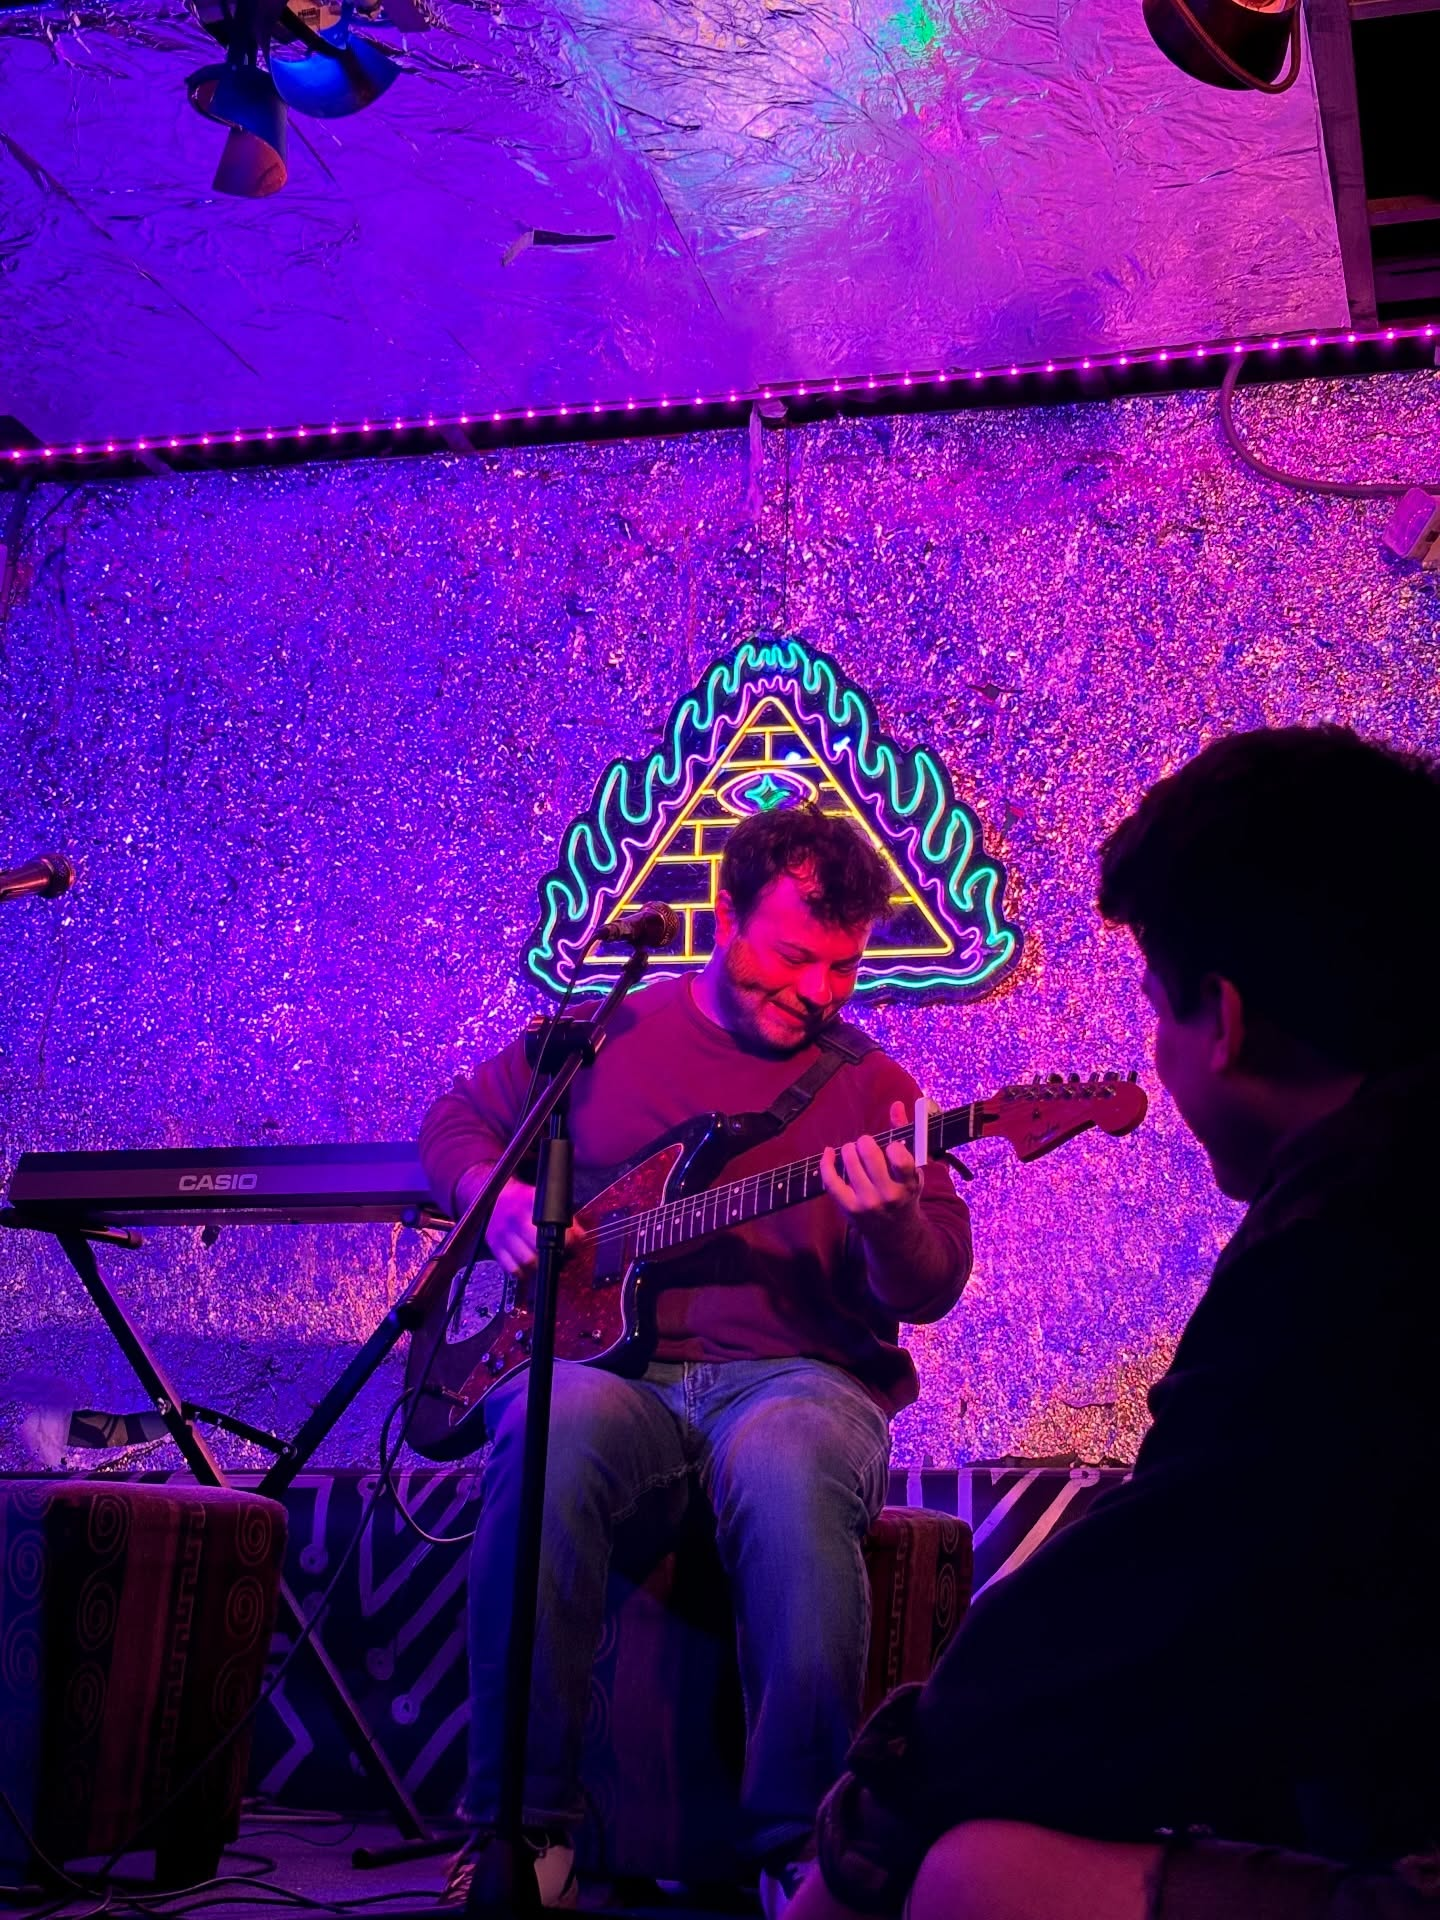
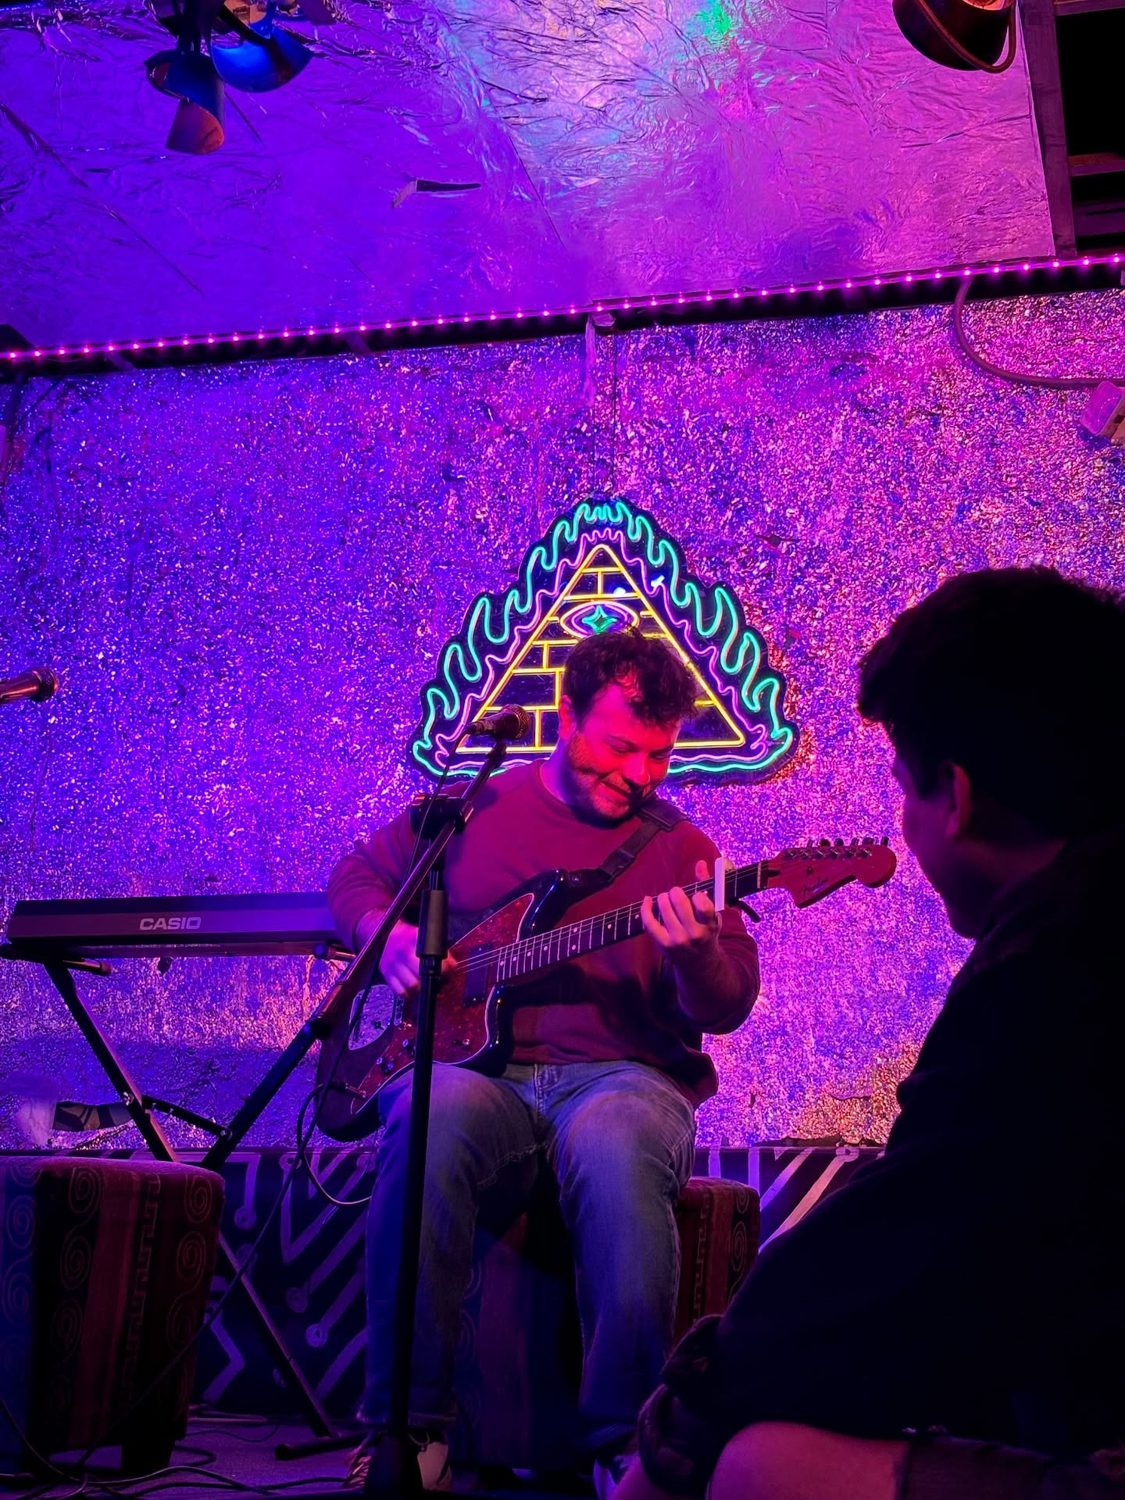
Cambios

diff --git a/src/styles/global.css b/src/styles/global.css
@@ -1,7 +1,6 @@
 /* rebrand: ink+bone+ember | 2026-05-20 */
 /* ==================== VARIABLES & GLOBAL STYLES ==================== */
-
-@import url('https://fonts.googleapis.com/css2?family=Fraunces:ital,opsz,wght@0,9..144,300;0,9..144,400;0,9..144,500;0,9..144,600;0,9..144,700;0,9..144,900;1,9..144,300;1,9..144,400;1,9..144,500;1,9..144,600&family=Instrument+Sans:ital,wght@0,400;0,500;0,600;0,700;1,400&family=JetBrains+Mono:wght@400;500;600;700&display=swap');
+/* Las fuentes se cargan vía <link> en Layout.astro (preconnect + stylesheet) */
 
 :root {
     /* ── INK + BONE + EMBER palette ── */

diff --git a/src/content/blog/apoya-mas-fuerte-mal-consejo.md b/src/content/blog/apoya-mas-fuerte-mal-consejo.md
@@ -1,5 +1,5 @@
 ---
-title: Por qué *"apoya más fuerte"* es el peor consejo vocal que puedes recibir
+title: 'Por qué "apoya más fuerte" es el peor consejo vocal que puedes recibir'
 excerpt: Llevas años escuchando que el secreto del canto está en "apoyar desde
   el diafragma" o "empujar el aire". Y es probable que ese consejo te haya
   frustrado más de lo que te ha ayudado. Te explico por qué, desde la

diff --git a/src/content/blog/faber-para-adultos.md b/src/content/blog/faber-para-adultos.md
@@ -1,5 +1,5 @@
 ---
-title: 'Faber & Faber para adultos: por qué un método "para niños" funciona *increíble*'
+title: 'Faber & Faber para adultos: por qué un método "para niños" funciona increíble'
 excerpt: 'El método de piano más usado por profesores serios alrededor del mundo tiene fama de ser para niños. Es un mito que cuesta dinero y motivación a muchos adultos. Te explico por qué Faber funciona perfectamente para adultos cuando se aplica con criterio.'
 category: 'piano'
 date: 2026-04-28

diff --git a/src/content/blog/hook-theory-composicion.md b/src/content/blog/hook-theory-composicion.md
@@ -1,5 +1,5 @@
 ---
-title: 'Hook Theory: cómo leer la *armonía* de tus canciones favoritas (y empezar a componer las tuyas)'
+title: 'Hook Theory: cómo leer la armonía de tus canciones favoritas (y empezar a componer las tuyas)'
 excerpt: 'Si quieres componer pero no sabes por dónde empezar, Hook Theory es el atajo que cambia todo. La notación funcional (1-4-5-6) te muestra el patrón detrás del pop, rock y jazz — y te enseña a oír música con otros ojos.'
 category: 'composicion'
 date: 2026-04-21